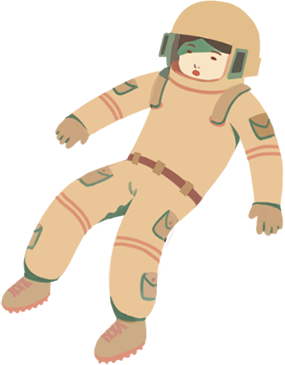
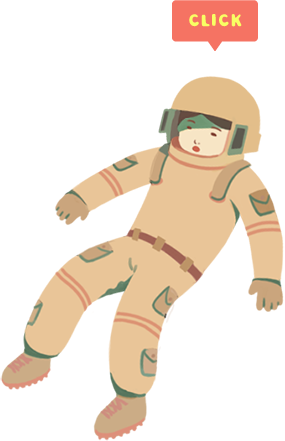
t

diff --git a/sketch.js b/sketch.js
@@ -58,7 +58,7 @@ function draw()
     var timing = (new Date()%duration)/duration;
 
     image(img2,365 + Math.cos(timing*2*PI)*15+ Math.cos(timing*2*PI)*5,         
-    744 + Math.sin(timing*2*PI)*15+ Math.cos(timing*2*PI)*5);       
+    700 + Math.sin(timing*2*PI)*15+ Math.cos(timing*2*PI)*5);       
 
     image(img16, mouseX - 32, mouseY - 21);  
 
